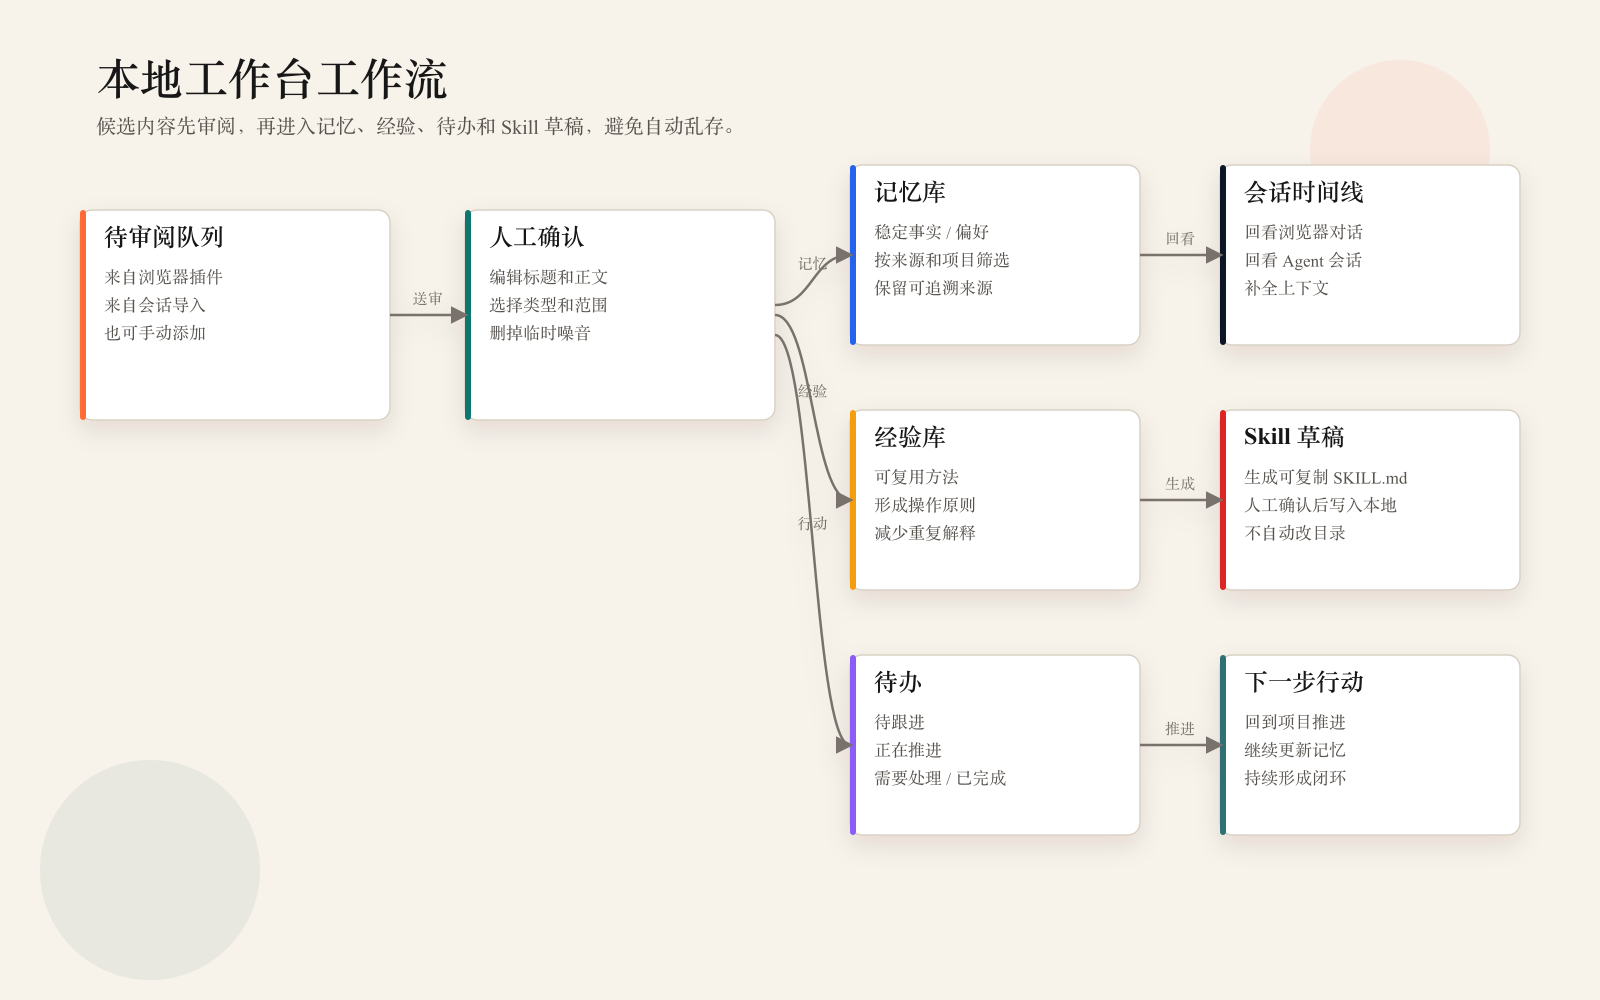
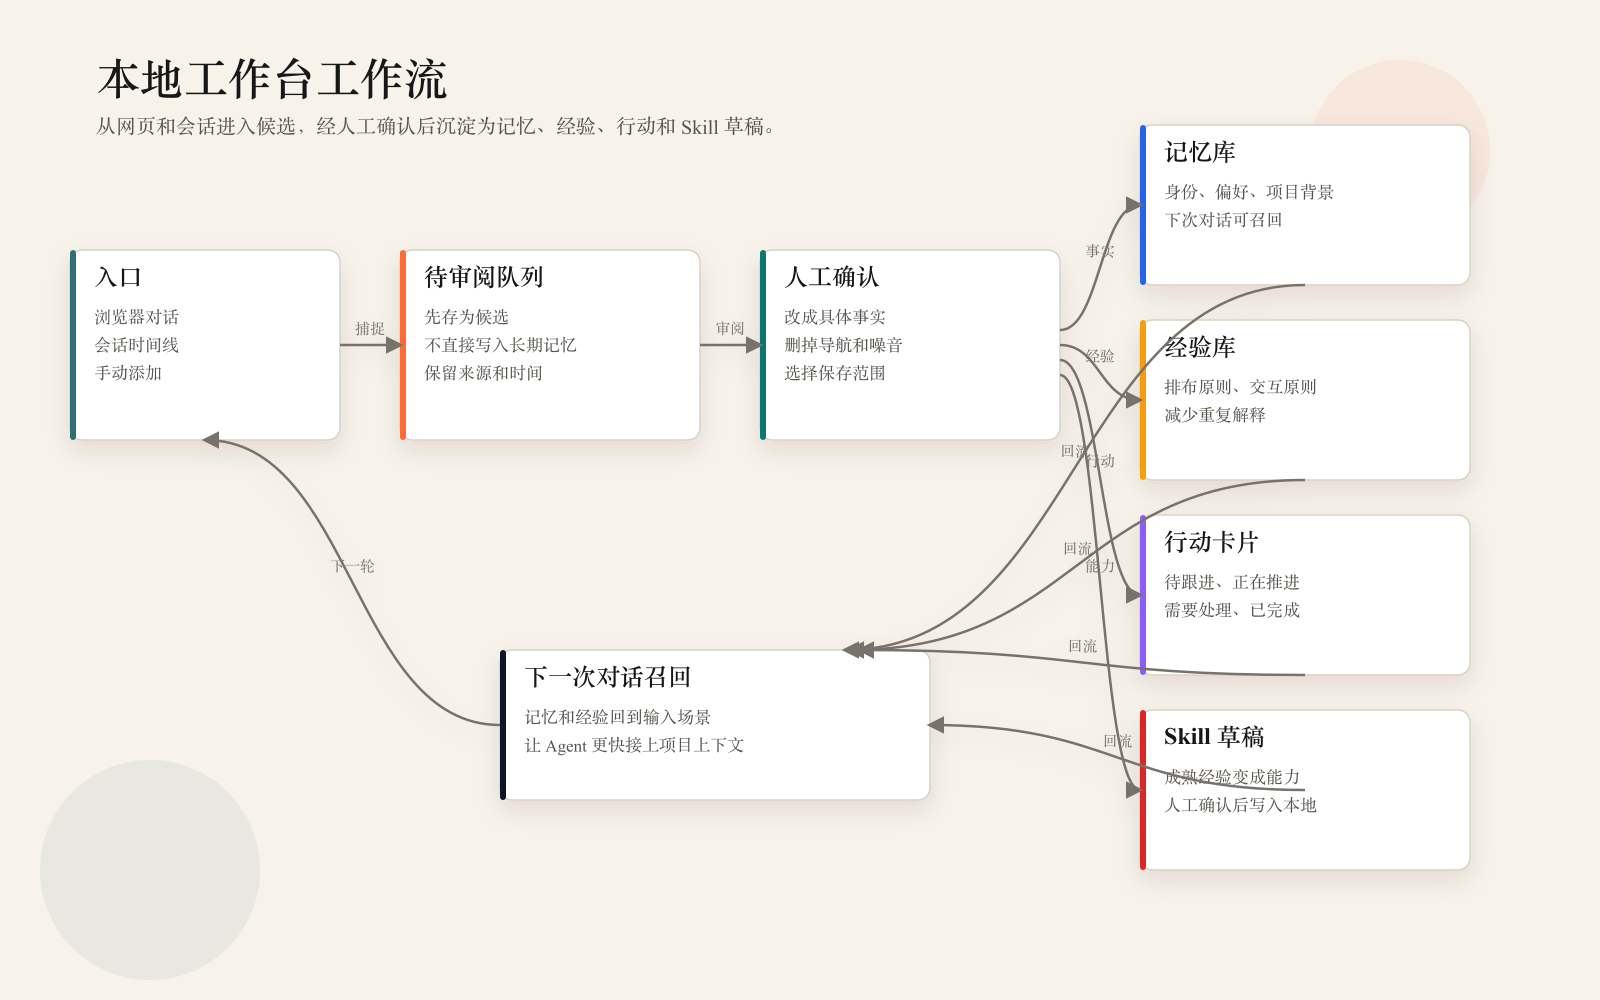
docs(feishu): clarify workbench workflow

diff --git a/docs/project-delivery-guide-cn.md b/docs/project-delivery-guide-cn.md
@@ -128,7 +128,8 @@ npm run sync:ai-validation-table
 - 飞书文档：<https://my.feishu.cn/docx/Ys7qdCP3mo1KOtxpVZuc8nPCnZI>
 - 飞书文档源稿：`docs/feishu/agentmemory-project-intro-cn.md`
 - 飞书白板源稿：`docs/feishu/whiteboards/workflow.mmd`、`docs/feishu/whiteboards/workbench-workflow.mmd`、`docs/feishu/whiteboards/structure.mmd`
-- 飞书白板 token：产品工作流 `VIRrwMaNxhiDgebb6Jdc2joSnyd`；本地工作台工作流 `U0TNwUKUShVYNEbog66ciGntnLT`；仓库结构 `R7wiwQTrMhv6hib5U6fcbr8Gn0f`
+- 飞书白板 token：产品工作流 `SVjZwMwvXhOpxrbTCy7cLH9TnhC`；本地工作台工作流 `UiY9wZbpShh73CbRl8kcPbgcn9g`；仓库结构 `CbOlww8M9hIzJDblujBcHGb3nVd`
+- 注意：覆盖更新飞书文档正文会重新生成白板块；更新正文后需要用最新 token 重新写入三张可编辑白板。
 
 ## 维护建议
 